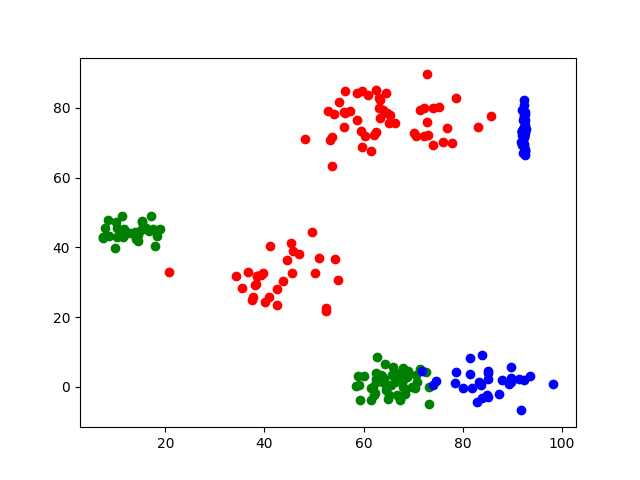
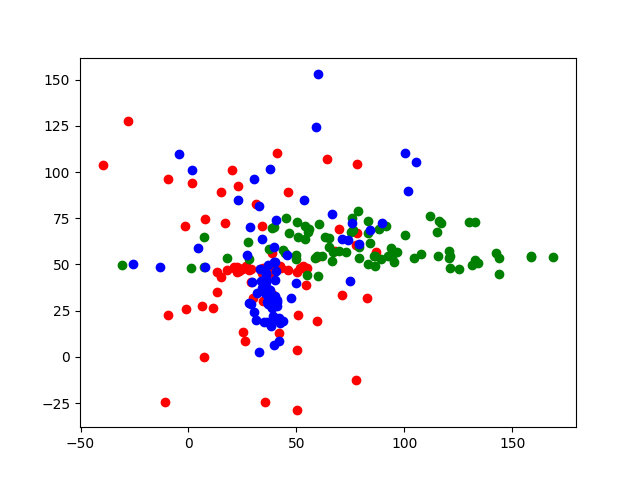
Syntheic Data Image Better Spread

diff --git a/backend/Radiuscalc/generate_data.py b/backend/Radiuscalc/generate_data.py
@@ -18,7 +18,7 @@ for shop_type in range(N_Types):
         #  The Cluster Centers need to spread randomly
         center = np.random.rand(2) * 100
         #  The Cluster Spread needs to be random
-        spread = np.random.rand(2) * 10
+        spread = np.random.rand(2) * 50
         x = np.random.normal(center[0], spread[0], N_points)
         y = np.random.normal(center[1], spread[1], N_points)
         
